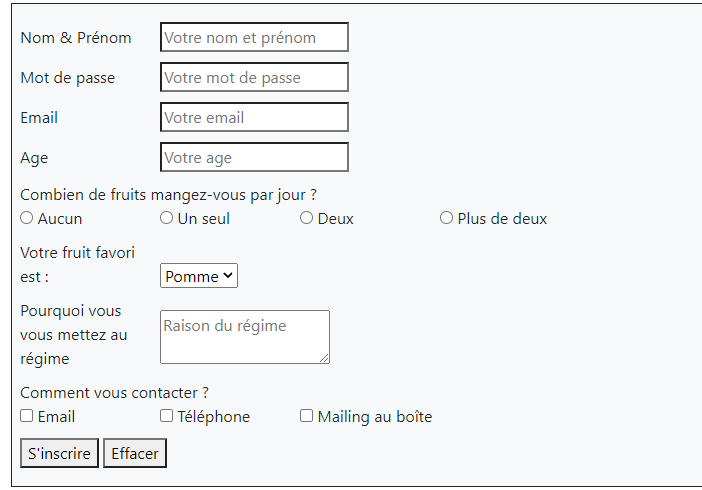
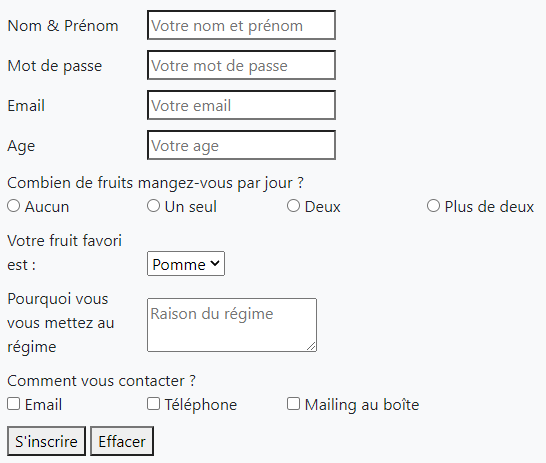
mise à jour seance 5

Changed region(s): [[0.0, 0.0, 1.0, 0.9978], [0.5604, 0.7257, 0.5916, 0.7559], [0.4359, 0.7257, 0.467, 0.7559]]

diff --git a/seance05.html b/seance05.html
@@ -365,7 +365,7 @@
         <p>Le formulaire suivant peut servir dans une <strong>plateforme de vente de produits alimentaires</strong> pour
           le régime.</p>
         <figure>
-          <img class="h8cm" src="images/formulaire-vierge.png" alt="Exemple de Formulaire">
+          <img class="h8cm border border-dark" src="images/formulaire-vierge.png" alt="Exemple de Formulaire">
           <figcaption>Exemple de formulaire</figcaption>
         </figure>
 
